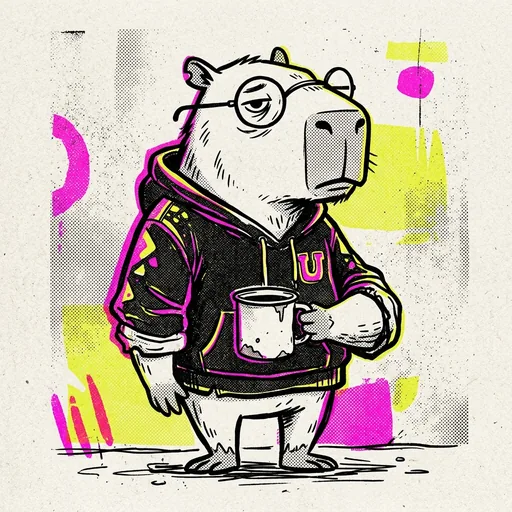
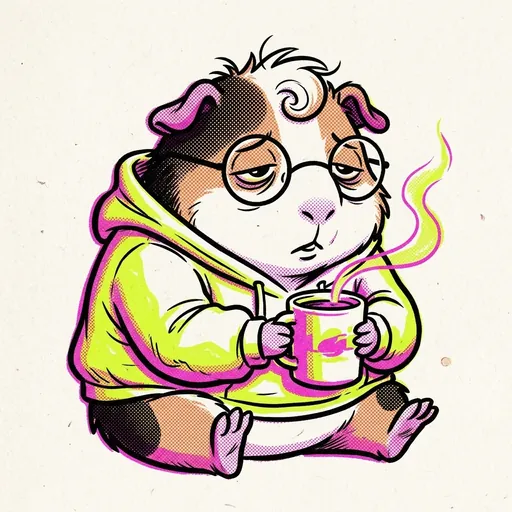
feat(arte): actualizar ilustraciones de Tito el cobayo (poses cafe, festejo, lupa, mate, urgente)

diff --git a/src/components/TitoAvatar.jsx b/src/components/TitoAvatar.jsx
@@ -16,14 +16,14 @@ const POSES = {
 }
 
 const ALTS = {
-  cafe: 'Tito el Carpincho cansado tomando café',
-  default: 'Tito el Carpincho Estudiante',
-  lupa: 'Tito el Carpincho buscando con lupa',
-  'empty-search': 'Tito buscando con lupa sin resultados',
-  festejo: 'Tito festejando con papeles al aire',
-  mate: 'Tito relajado tomando mate',
-  'relax-mate': 'Tito relajado tomando mate con el termo al lado',
-  urgente: 'Tito mordiendo un lápiz con alarma urgente',
+  cafe: 'Tito el cobayo cansado tomando café',
+  default: 'Tito el cobayo estudiante',
+  lupa: 'Tito el cobayo buscando con lupa',
+  'empty-search': 'Tito el cobayo buscando con lupa sin resultados',
+  festejo: 'Tito el cobayo festejando con confetti risograph al aire',
+  mate: 'Tito el cobayo relajado tomando mate con bombilla',
+  'relax-mate': 'Tito el cobayo relajado tomando mate',
+  urgente: 'Tito el cobayo con alarma y gotas de sudor por entrega urgente',
 }
 
 /**
